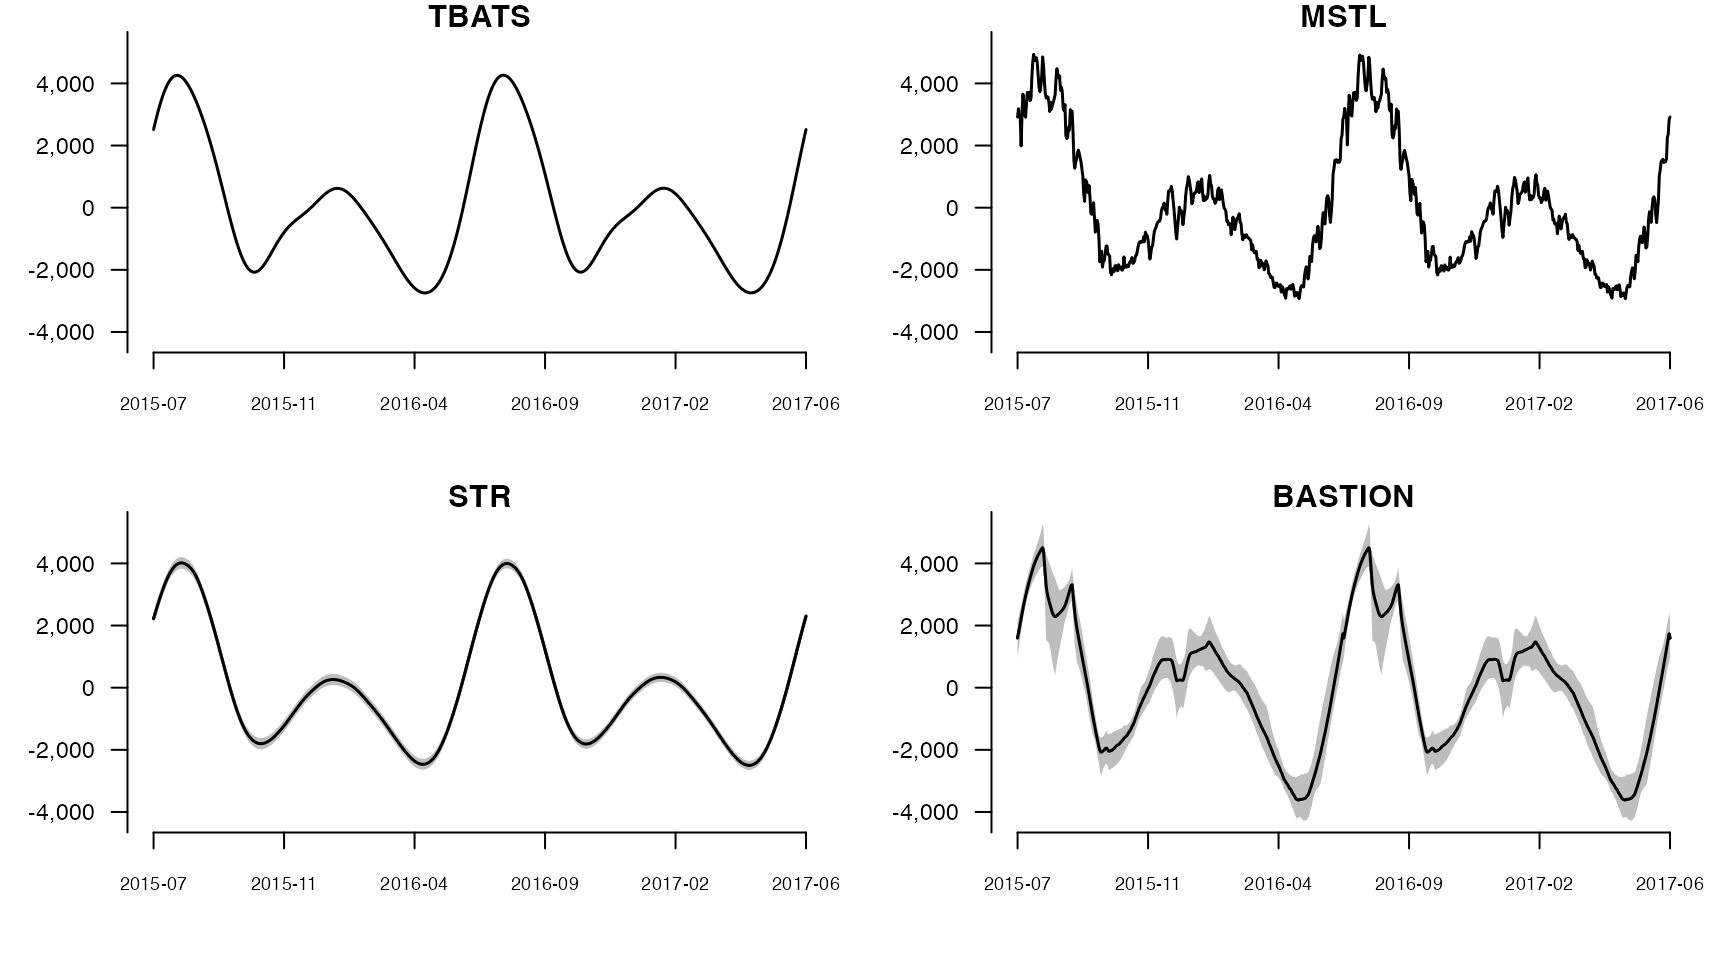
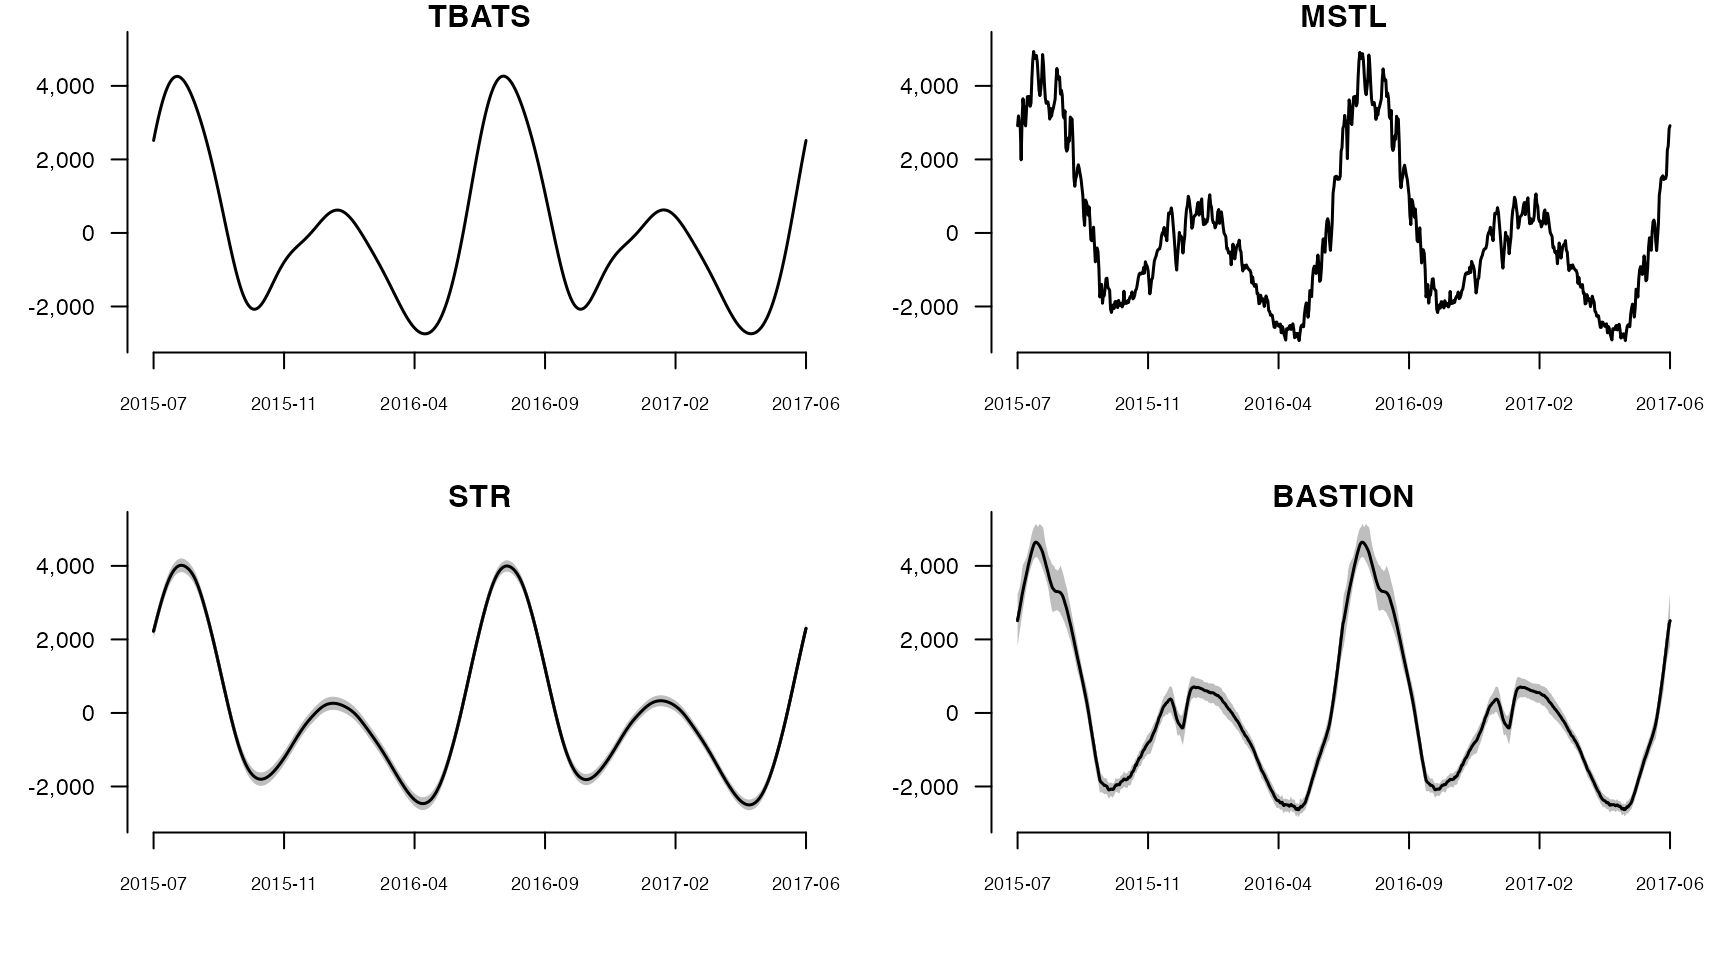
guide bug-fix

diff --git a/docs/articles/non-technical_guide.html b/docs/articles/non-technical_guide.html
@@ -85,7 +85,7 @@ challenges in a unified framework.</p>
 <h2 id="example-with-simulated-data">2. Example with Simulated Data<a class="anchor" aria-label="anchor" href="#example-with-simulated-data"></a>
 </h2>
 <p>Let’s consider following simulated data below:</p>
-<p><img src="non-technical_guide_files/figure-html/figure%20simulated%20data-1.png" width="864" alt="Simulated time series with a piecewise linear trend, seasonal patterns, outliers and Gaussian noise."><strong>Figure 1</strong>: Simulated Data with abrupt changes in trend,
+<p><img src="non-technical_guide_files/figure-html/figure%20simulated%20data-1.png" alt="Simulated time series with a piecewise linear trend, seasonal patterns, outliers and Gaussian noise." width="864"><strong>Figure 1</strong>: Simulated Data with abrupt changes in trend,
 outliers, and Gaussian noise with constant standard deviation 5.</p>
 <p>BASTION is fitted along with three other existing methods for
 comparison:</p>
@@ -127,7 +127,7 @@ Hyndman, 2022)</span>.</li>
 <p>One of the defining characteristic of the simulated data we see above
 is the presence of abrupt changes in trend which occur around t = 121,
 158, and 259.</p>
-<p><img src="non-technical_guide_files/figure-html/figures_trend-1.png" width="864" alt="Trend estimates from BASTION, TBATS, STR and MSTL compared with the known simulated trend."><strong>Figure 2</strong>: The true trend component drawn in black and
+<p><img src="non-technical_guide_files/figure-html/figures_trend-1.png" alt="Trend estimates from BASTION, TBATS, STR and MSTL compared with the known simulated trend." width="864"><strong>Figure 2</strong>: The true trend component drawn in black and
 the estimated trend component by TBATS, MSTL, STR, and BASTION are drawn
 in blue. Dotted lines represent BASTION’s 95 percent credible intervals
 and STR’s 95 percent confidence intervals.</p>
@@ -169,7 +169,7 @@ Operator (NYISO) via the U.S. Energy Information Administration <span class="cit
 trend, intricate seasonal patterns, and heteroskedastic noise. Through
 time-series decomposition, we will demonstrate how BASTION effectively
 reveals underlying patterns that are otherwise obscured by noise.</p>
-<p><img src="non-technical_guide_files/figure-html/figures%20electricity-1.png" width="864" alt="Daily average electricity demand in New York State from July 2015 through June 2024."><strong>Figure 3</strong>: Daily average electricity demand in New York
+<p><img src="non-technical_guide_files/figure-html/figures%20electricity-1.png" alt="Daily average electricity demand in New York State from July 2015 through June 2024." width="864"><strong>Figure 3</strong>: Daily average electricity demand in New York
 State from July 1, 2015, to June 30, 2024. The data represent the
 average hourly electricity demand for each day, aggregated from hourly
 observations.</p>
@@ -191,7 +191,7 @@ the influence of improved energy efficiency over the years.</li>
 <div class="section level3">
 <h3 id="decomposition-with-bastion">3.1 Decomposition with BASTION<a class="anchor" aria-label="anchor" href="#decomposition-with-bastion"></a>
 </h3>
-<p><img src="non-technical_guide_files/figure-html/figures%20electricity%20BASTION-1.png" width="864" alt="Estimated trend, weekly and yearly seasonal components, and observation standard deviation for New York electricity demand."><strong>Figure 4</strong>: Decomposition of the trend, weekly
+<p><img src="non-technical_guide_files/figure-html/figures%20electricity%20BASTION-1.png" alt="Estimated trend, weekly and yearly seasonal components, and observation standard deviation for New York electricity demand." width="864"><strong>Figure 4</strong>: Decomposition of the trend, weekly
 seasonality, yearly seasonality, and volatility using BASTION for daily
 average electricity demand from July 1, 2015, to June 30, 2024. Dark
 grey regions represent the 95% credible intervals. To enhance clarity,
@@ -238,7 +238,7 @@ spikes.</li>
 </h3>
 <p>I would like to direct our attention to the yearly seasonal estimates
 in comparison with the ones produced by the three existing models.
-<img src="non-technical_guide_files/figure-html/Electricity%20comparison-1.png" width="864" alt="Yearly seasonal estimates from TBATS, MSTL, STR and BASTION for New York electricity demand from July 2015 to June 2017."><strong>Figure 5</strong>: Yearly seasonality estimates for daily
+<img src="non-technical_guide_files/figure-html/Electricity%20comparison-1.png" alt="Yearly seasonal estimates from TBATS, MSTL, STR and BASTION for New York electricity demand from July 2015 to June 2017." width="864"><strong>Figure 5</strong>: Yearly seasonality estimates for daily
 average electricity demand in New York from July 2015 to June 2017.
 Estimates from TBATS, MSTL, STR, and BASTION are displayed
 respectively.</p>
